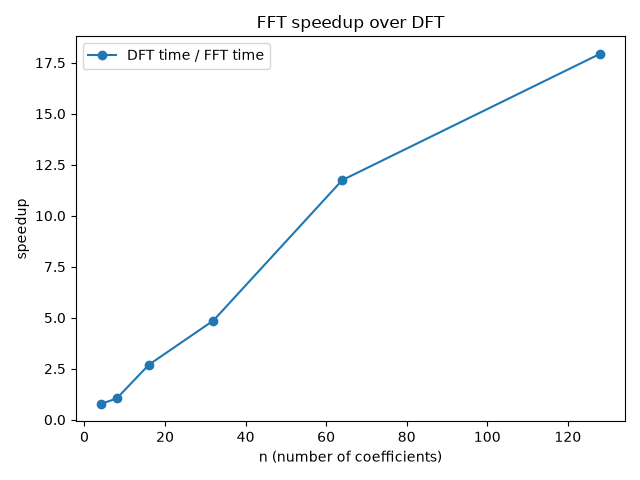
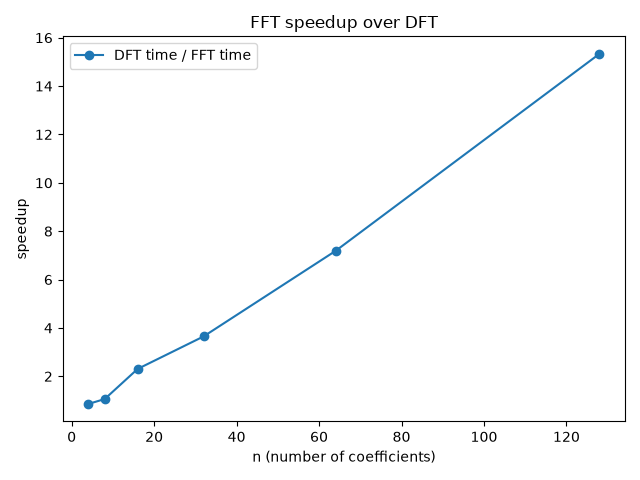
Completedgit add .

diff --git a/demo.py b/demo.py
@@ -1,0 +1,157 @@
+"""Readable n=4 walkthrough of the polynomial FFT/RSA workflow."""
+
+from __future__ import annotations
+
+import csv
+from pathlib import Path
+
+import numpy as np
+
+from dft import dft_vandermonde
+from fft import fft, ifft
+from rsa_utils import (
+    decode_component,
+    encode_component,
+    generate_keypair,
+    rsa_decrypt,
+    rsa_encrypt,
+)
+
+
+ROOT = Path(__file__).resolve().parent
+
+
+def load_n4_polynomials() -> tuple[np.ndarray, np.ndarray]:
+    """Load the n=4 coefficient vectors from the assignment dataset."""
+    data_path = ROOT / "data" / "Dataset.csv"
+    rows: list[tuple[int, int, int]] = []
+    with data_path.open(newline="", encoding="utf-8") as file:
+        for row in csv.DictReader(file):
+            if int(row["n"]) == 4:
+                rows.append(
+                    (
+                        int(row["coefficient_index"]),
+                        int(row["A_coefficient"]),
+                        int(row["B_coefficient"]),
+                    )
+                )
+
+    if len(rows) != 4:
+        raise ValueError(f"Expected four n=4 rows in {data_path}, found {len(rows)}.")
+    rows.sort()
+    return (
+        np.array([row[1] for row in rows], dtype=float),
+        np.array([row[2] for row in rows], dtype=float),
+    )
+
+
+def format_complex(value: complex) -> str:
+    """Format a complex value compactly for tables."""
+    return f"{value.real:10.4f} {value.imag:+10.4f}i"
+
+
+def print_frequency_table(
+    roots: np.ndarray,
+    a_values: np.ndarray,
+    b_values: np.ndarray,
+    product_values: np.ndarray,
+) -> None:
+    """Print root locations and evaluated frequency-domain values."""
+    print("\nEvaluation at the N=8 roots of unity")
+    print(" k | root                 | A(root)              | B(root)              | A(root)*B(root)")
+    print("---+----------------------+----------------------+----------------------+----------------------")
+    for index, (root, a_value, b_value, product) in enumerate(
+        zip(roots, a_values, b_values, product_values)
+    ):
+        print(
+            f"{index:2d} | {format_complex(root)} | {format_complex(a_value)} | "
+            f"{format_complex(b_value)} | {format_complex(product)}"
+        )
+
+
+def main() -> None:
+    """Run and display the complete workflow for n=4 only."""
+    A, B = load_n4_polynomials()
+    n = len(A)
+    N = 2 * n
+    A_padded = np.pad(A, (0, N - n))
+    B_padded = np.pad(B, (0, N - n))
+
+    print("=== Polynomial multiplication demo: n=4 ===")
+    print(f"A(x) coefficients: {A.astype(int).tolist()}")
+    print(f"B(x) coefficients: {B.astype(int).tolist()}")
+    print(f"\nZero-padding to N=2n={N}:")
+    print(f"A padded: {A_padded.astype(int).tolist()}")
+    print(f"B padded: {B_padded.astype(int).tolist()}")
+
+    roots = np.exp(-2j * np.pi * np.arange(N) / N)
+    A_hat = fft(A_padded)
+    B_hat = fft(B_padded)
+    C_hat = A_hat * B_hat
+    direct_A_hat = dft_vandermonde(A_padded)
+    direct_B_hat = dft_vandermonde(B_padded)
+
+    print_frequency_table(roots, A_hat, B_hat, C_hat)
+    print(
+        "\nFFT/DFT cross-check: "
+        f"max A difference={np.max(np.abs(A_hat - direct_A_hat)):.3e}, "
+        f"max B difference={np.max(np.abs(B_hat - direct_B_hat)):.3e}"
+    )
+
+    public_key, private_key = generate_keypair(128)
+    modulus = public_key[0]
+    scale = 1000
+    offset = int(np.ceil(np.max(np.abs(C_hat)) * scale)) + 1
+    encoded: list[tuple[int, int]] = []
+    encrypted: list[tuple[int, int]] = []
+    decrypted: list[tuple[int, int]] = []
+    decoded_values: list[complex] = []
+
+    for value in C_hat:
+        encoded_pair = (
+            encode_component(float(value.real), scale, offset),
+            encode_component(float(value.imag), scale, offset),
+        )
+        if any(not 0 <= component < modulus for component in encoded_pair):
+            raise ValueError("An encoded component does not fit in the RSA modulus.")
+        encrypted_pair = tuple(
+            rsa_encrypt(component, public_key) for component in encoded_pair
+        )
+        decrypted_pair = tuple(
+            rsa_decrypt(component, private_key) for component in encrypted_pair
+        )
+        encoded.append(encoded_pair)
+        encrypted.append(encrypted_pair)
+        decrypted.append(decrypted_pair)
+        decoded_values.append(
+            decode_component(decrypted_pair[0], scale, offset)
+            + 1j * decode_component(decrypted_pair[1], scale, offset)
+        )
+
+    print("\nRSA encoding details")
+    print(f"Key size: {modulus.bit_length()} bits")
+    print(f"Scale: {scale}; offset: {offset}; modulus: {modulus}")
+    print(" k | encoded (real, imag)        | ciphertexts (hex, truncated)")
+    print("---+-----------------------------+--------------------------------")
+    for index, (encoded_pair, encrypted_pair) in enumerate(zip(encoded, encrypted)):
+        ciphertext_text = ", ".join(f"{value:x}"[:18] + "..." for value in encrypted_pair)
+        print(f"{index:2d} | {str(encoded_pair):27s} | {ciphertext_text}")
+
+    recovered = ifft(np.array(decoded_values))
+    reference = np.convolve(A.astype(int), B.astype(int))
+    recovered_coefficients = np.rint(recovered.real[: 2 * n - 1]).astype(int)
+
+    print("\nAfter RSA decryption and inverse FFT")
+    print(f"Decoded C_hat[0]: {format_complex(decoded_values[0])}")
+    print(f"Maximum IFFT imaginary magnitude: {np.max(np.abs(recovered.imag)):.3e}")
+    print(
+        "Maximum distance to nearest integer: "
+        f"{np.max(np.abs(recovered.real - np.rint(recovered.real))):.3e}"
+    )
+    print(f"Recovered coefficients: {recovered_coefficients.tolist()}")
+    print(f"Direct convolution:     {reference.tolist()}")
+    print(f"Exact match: {np.array_equal(recovered_coefficients, reference)}")
+
+
+if __name__ == "__main__":
+    main()

diff --git a/rsa_utils.py b/rsa_utils.py
@@ -5,6 +5,36 @@ import secrets
 from functools import lru_cache
 
 
+def modular_exponentiation(a: int, b: int, n: int) -> int:
+    """Calculate ``(a ** b) % n`` with left-to-right binary exponentiation."""
+    if b < 0:
+        raise ValueError("The exponent must be non-negative.")
+    if n <= 0:
+        raise ValueError("The modulus must be positive.")
+    if b == 0:
+        return 1 % n
+
+    result = 1
+    for bit in bin(b)[2:]:
+        result = (result * result) % n
+        if bit == "1":
+            result = (result * (a % n)) % n
+    return result
+
+
+def _modular_inverse(a: int, n: int) -> int:
+    """Return the modular inverse of ``a`` modulo ``n``."""
+    old_r, r = a, n
+    old_s, s = 1, 0
+    while r != 0:
+        quotient = old_r // r
+        old_r, r = r, old_r - quotient * r
+        old_s, s = s, old_s - quotient * s
+    if old_r != 1:
+        raise ValueError(f"{a} has no modular inverse modulo {n}.")
+    return old_s % n
+
+
 def is_probable_prime(n: int, rounds: int = 20) -> bool:
     """Test probable primality with Miller-Rabin in O(rounds * log(n)^3) time."""
     if n < 2:
@@ -23,11 +53,11 @@ def is_probable_prime(n: int, rounds: int = 20) -> bool:
 
     for _ in range(rounds):
         base = secrets.randbelow(n - 3) + 2
-        value = pow(base, d, n)
+        value = modular_exponentiation(base, d, n)
         if value in (1, n - 1):
             continue
         for _ in range(s - 1):
-            value = pow(value, 2, n)
+            value = modular_exponentiation(value, 2, n)
             if value == n - 1:
                 break
         else:
@@ -59,7 +89,7 @@ def generate_keypair(bits: int) -> tuple[tuple[int, int], tuple[int, int]]:
         phi = (p - 1) * (q - 1)
         for exponent in (65537, 3, 5, 17, 257):
             if math.gcd(exponent, phi) == 1:
-                private_exponent = pow(exponent, -1, phi)
+                private_exponent = _modular_inverse(exponent, phi)
                 return ((modulus, exponent), (modulus, private_exponent))
 
 
@@ -68,7 +98,7 @@ def rsa_encrypt(m: int, public_key: tuple[int, int]) -> int:
     modulus, exponent = public_key
     if not isinstance(m, int) or not 0 <= m < modulus:
         raise ValueError("RSA plaintext must be an integer in the range [0, modulus).")
-    return pow(m, exponent, modulus)
+    return modular_exponentiation(m, exponent, modulus)
 
 
 def rsa_decrypt(c: int, private_key: tuple[int, int]) -> int:
@@ -76,7 +106,7 @@ def rsa_decrypt(c: int, private_key: tuple[int, int]) -> int:
     modulus, exponent = private_key
     if not isinstance(c, int) or not 0 <= c < modulus:
         raise ValueError("RSA ciphertext must be an integer in the range [0, modulus).")
-    return pow(c, exponent, modulus)
+    return modular_exponentiation(c, exponent, modulus)
 
 
 def encode_component(x: float, scale: int = 1000, offset: int = 10**6) -> int:

diff --git a/PES1UG24CS288.py b/PES1UG24CS288.py
@@ -135,7 +135,7 @@ def main() -> None:
     results = []
 
     for n in SIZES:
-        print(f"\n=== n={n} ===")
+        print(f"\n\n======================= n={n} ===========================")
         a, b = polynomials[n]
         a_padded = np.pad(a, (0, n))
         b_padded = np.pad(b, (0, n))
@@ -149,14 +149,26 @@ def main() -> None:
         a_fft = fft(a_padded)
         b_fft = fft(b_padded)
         fft_time = time.perf_counter() - start
+
+        if n == 16:
+            print(a_dft)
+            print(b_dft)
+            
         print(f"DFT time: {dft_time:.8f} seconds")
         print(f"FFT time: {fft_time:.8f} seconds")
+
         max_difference = max(
             np.max(np.abs(a_dft - a_fft)), np.max(np.abs(b_dft - b_fft))
         )
         print(f"Max diff DFT vs FFT: {max_difference:.3e}")
 
         product = a_fft * b_fft
+
+
+        if n==16:
+            print("Product = ", product)
+
+
         # The assignment's default offset is 10**6.  This dataset's largest
         # frequency product needs a larger offset after scale=1000.
         safe_offset = int(np.ceil(np.max(np.abs(product)) * 1000)) + 1
